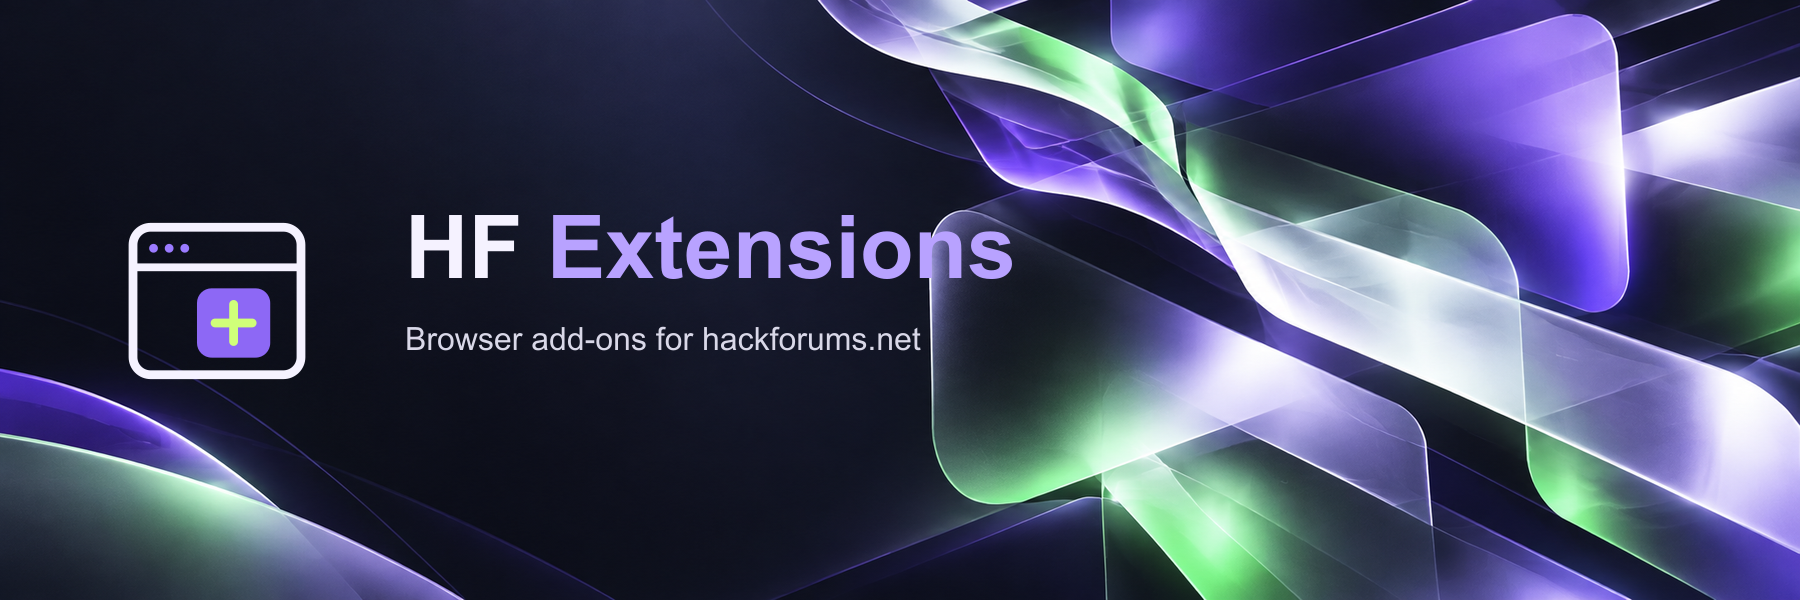
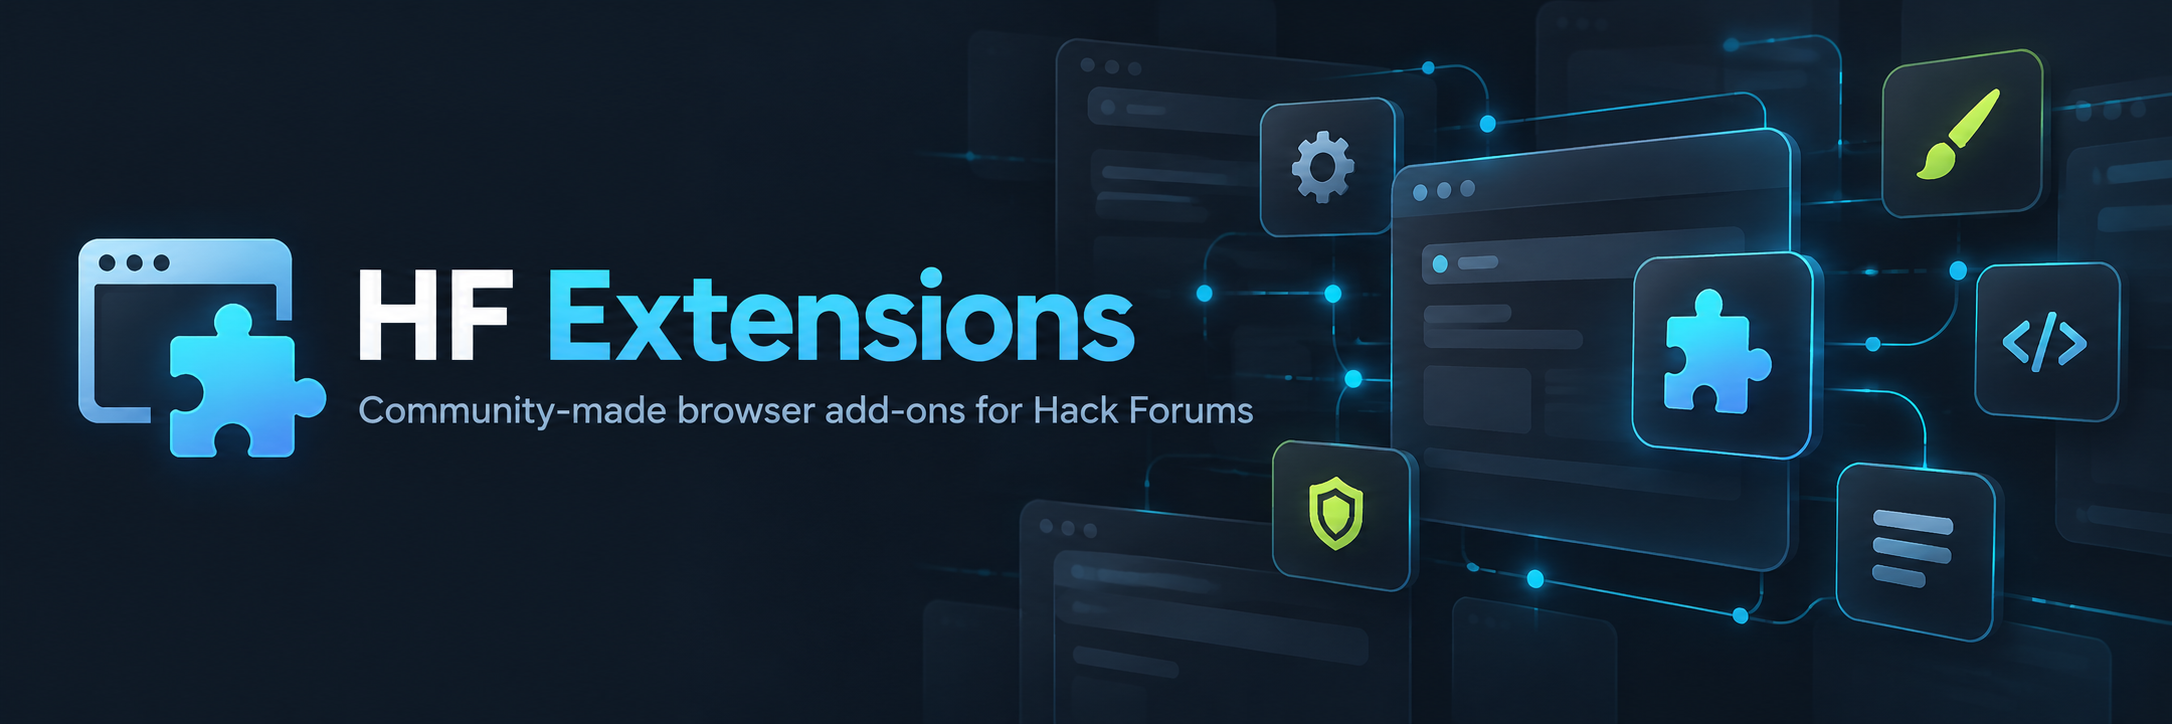
Refresh HF Extensions profile artwork

diff --git a/profile/README.md b/profile/README.md
@@ -1,5 +1,5 @@
 <div align="center">
-  <img src="assets/banner.png" alt="HF Extensions — browser add-ons for Hack Forums" width="100%">
+  <img src="assets/banner.png" alt="HF Extensions — community-made browser add-ons for Hack Forums" width="100%">
 
   # HF Extensions
 
